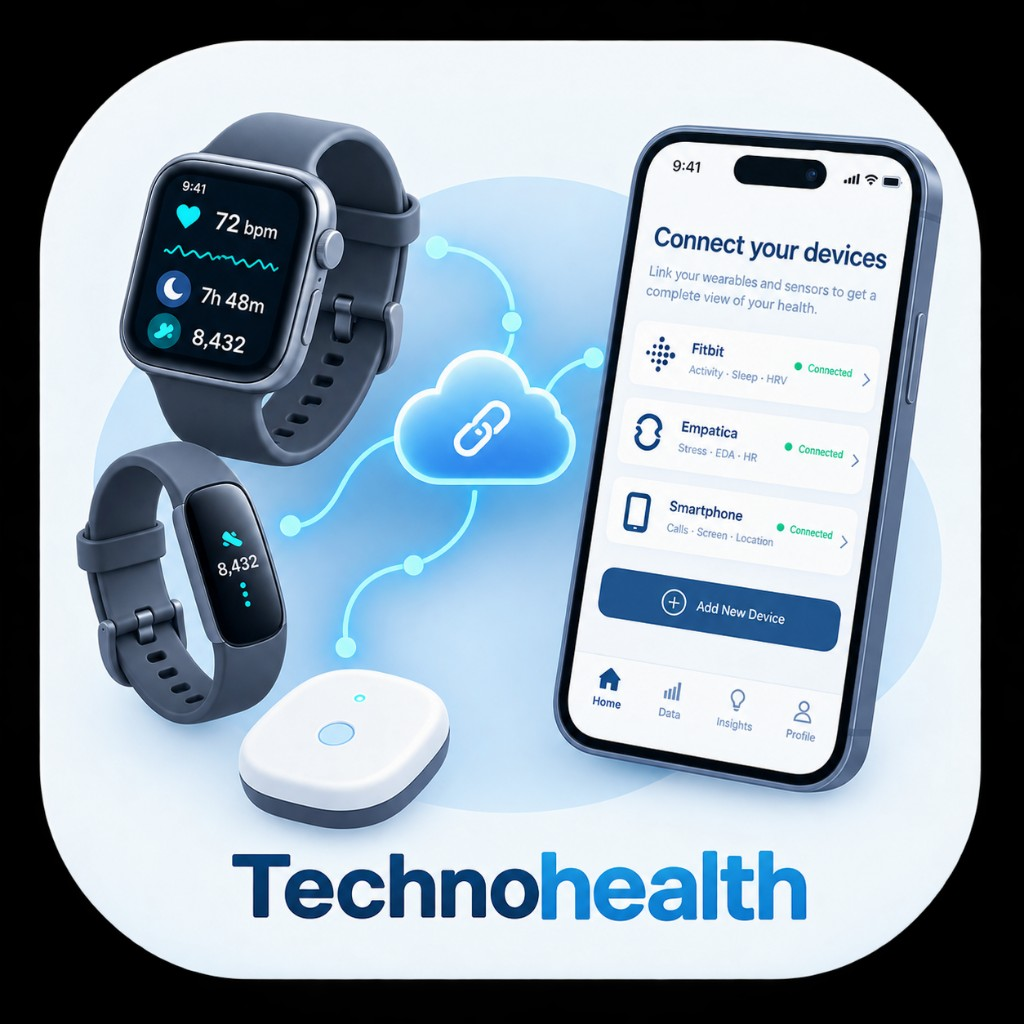
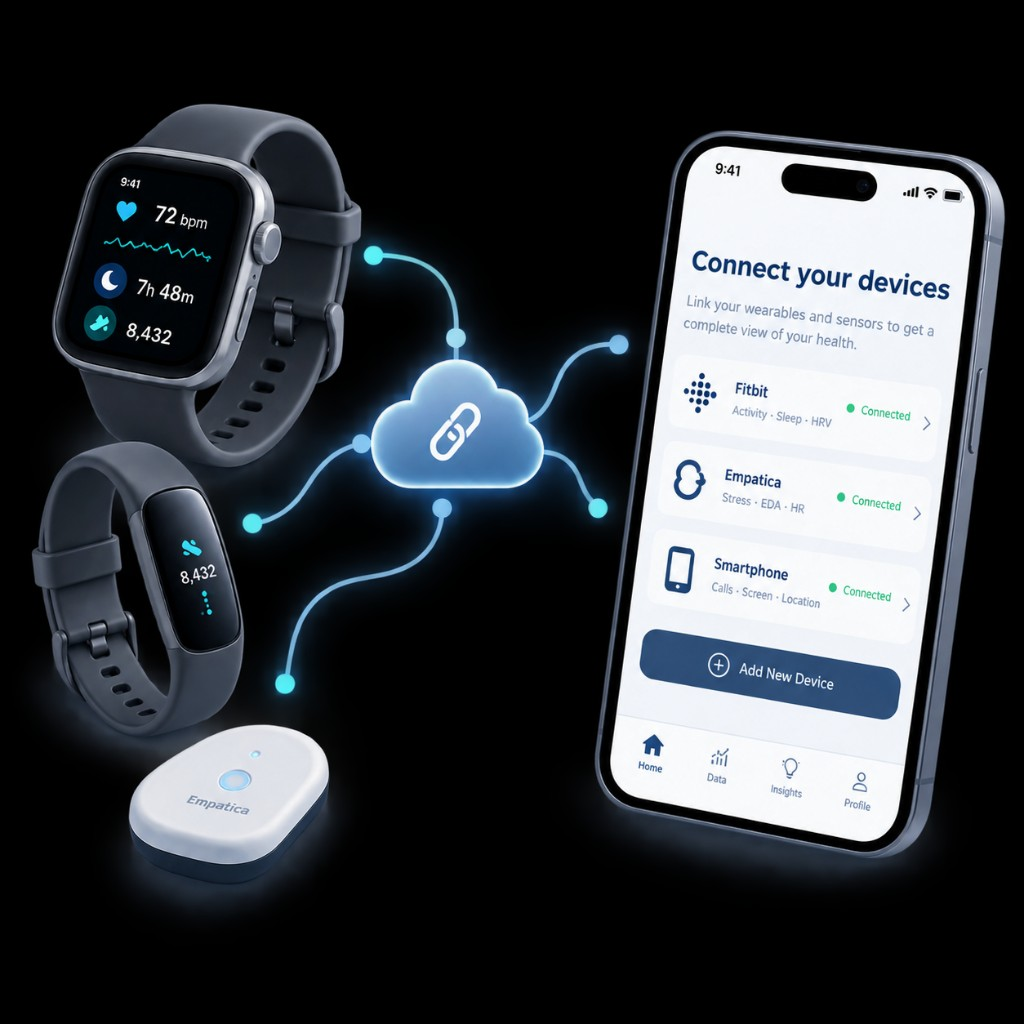
Update API Integration graphic and add docs CTA.
Use the new device-connect illustration and place a blue See API Documentation button under it.

diff --git a/src/components/BenefitsPillars.tsx b/src/components/BenefitsPillars.tsx
@@ -1,4 +1,5 @@
 import { useState } from 'react';
+import { Link } from 'react-router-dom';
 import { Cable, BrainCircuit, Bot, CheckCircle2 } from 'lucide-react';
 import { useLanguage } from '../context/LanguageContext';
 import { getSiteCopy } from '../config/siteCopy';
@@ -283,28 +284,50 @@ export default function BenefitsPillars() {
             </div>
           ) : (
             <div className="grid lg:grid-cols-12">
-              <div className="lg:col-span-5 relative min-h-[240px] md:min-h-[420px]">
-                <img
-                  src={active.image}
-                  alt={active.imageAlt}
-                  className="absolute inset-0 w-full h-full object-cover"
-                  loading="lazy"
-                />
-                <div
-                  className="absolute inset-0"
-                  style={{
-                    background: 'linear-gradient(to top, rgba(13,71,161,0.35) 0%, transparent 45%)',
-                  }}
-                />
-                <div className="absolute bottom-4 left-4 right-4 flex items-center gap-2">
-                  <div
-                    className="w-9 h-9 flex items-center justify-center"
-                    style={{ backgroundColor: 'rgba(255,255,255,0.92)', color: active.accent }}
-                  >
-                    <ActiveIcon className="w-4 h-4" strokeWidth={1.75} />
-                  </div>
-                  <span className="text-sm font-medium text-white drop-shadow">{active.label}</span>
+              <div
+                className={`lg:col-span-5 relative min-h-[240px] md:min-h-[420px] flex flex-col ${
+                  active.id === 'api' ? 'bg-black' : ''
+                }`}
+              >
+                <div className="relative flex-1 min-h-[240px] md:min-h-[360px]">
+                  <img
+                    src={active.image}
+                    alt={active.imageAlt}
+                    className={`absolute inset-0 w-full h-full ${
+                      active.id === 'api' ? 'object-contain p-4 md:p-6' : 'object-cover'
+                    }`}
+                    loading="lazy"
+                  />
+                  {active.id !== 'api' && (
+                    <>
+                      <div
+                        className="absolute inset-0"
+                        style={{
+                          background:
+                            'linear-gradient(to top, rgba(13,71,161,0.35) 0%, transparent 45%)',
+                        }}
+                      />
+                      <div className="absolute bottom-4 left-4 right-4 flex items-center gap-2">
+                        <div
+                          className="w-9 h-9 flex items-center justify-center"
+                          style={{ backgroundColor: 'rgba(255,255,255,0.92)', color: active.accent }}
+                        >
+                          <ActiveIcon className="w-4 h-4" strokeWidth={1.75} />
+                        </div>
+                        <span className="text-sm font-medium text-white drop-shadow">
+                          {active.label}
+                        </span>
+                      </div>
+                    </>
+                  )}
                 </div>
+                {active.id === 'api' && (
+                  <div className="px-4 pb-5 pt-2 flex justify-center bg-black">
+                    <Link to="/docs#api" className="g-btn-primary no-underline">
+                      {t.platformApiDocsCta}
+                    </Link>
+                  </div>
+                )}
               </div>
 
               <div className="lg:col-span-7 p-6 md:p-10 flex flex-col justify-center">

diff --git a/src/config/siteCopy.ts b/src/config/siteCopy.ts
@@ -43,6 +43,7 @@ const siteCopy = {
     platformTab1F3Title: 'Sync your way',
     platformTab1F3Desc:
       'Pull with SDKs or push with webhooks. Self-host when you need the data to stay on your servers.',
+    platformApiDocsCta: 'See API Documentation',
 
     platformTab2: 'Health Monitoring',
     platformTab2Intro:
@@ -174,6 +175,7 @@ const siteCopy = {
     platformTab1F3Title: 'Synchronisez comme vous voulez',
     platformTab1F3Desc:
       'Tirez avec les SDK ou poussez avec des webhooks. Auto-hébergez quand les données doivent rester chez vous.',
+    platformApiDocsCta: 'Voir la documentation API',
 
     platformTab2: 'Suivi de santé',
     platformTab2Intro:
